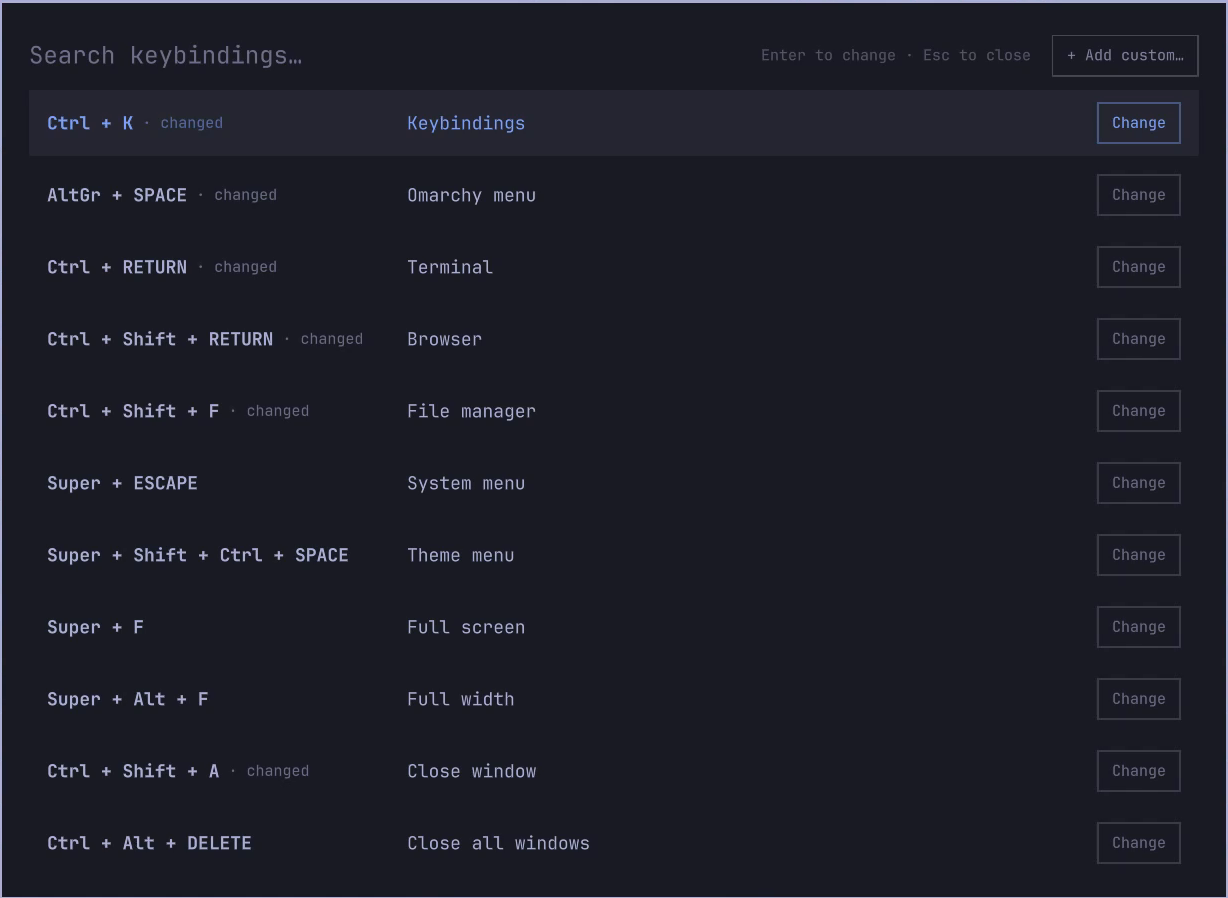
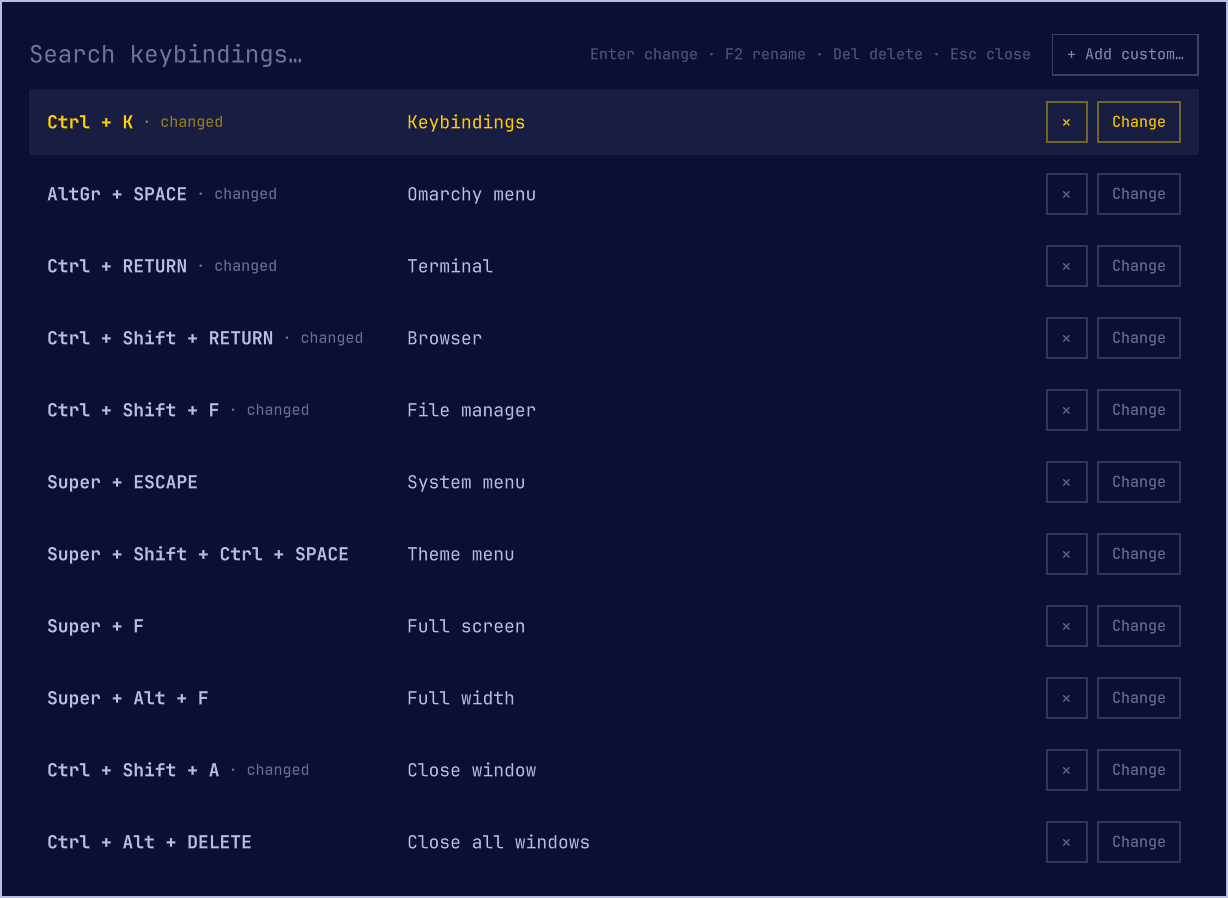
Fix restore of a removed bind, refresh screenshots and docs
Restore used the remap inverse to find the entry to delete. When another
action's replacement sits on the removed bind's original combo (the
conflict-override case), that resolved to the other action's entry and
deleted its remap instead. A removed row already carries its original
combo; use it directly.

Also normalize keybind-renames.lua keys on load so hand-edited entries
match, and open rename from the list without suspending binds first, so
the two submap dispatches no longer race.

Screenshots show the delete buttons, the Rename link, the rename field and
the Removed section; the README table lists the new ones.

diff --git a/KeybindEditor.qml b/KeybindEditor.qml
@@ -140,8 +140,13 @@ Item {
     root.rebuildDisplay()
   }
 
+  // Keys are normalized on load so a hand-edited "Super + K" still matches.
   function loadRenames(text) {
-    root.renames = KeybindModel.parseRemaps(text || "")
+    var parsed = KeybindModel.parseRemaps(text || "")
+    var normalized = {}
+    for (var original in parsed)
+      normalized[KeybindModel.normalize(original)] = parsed[original]
+    root.renames = normalized
     if (root.opened) root.rebuildDisplay()
   }
 
@@ -283,7 +288,9 @@ Item {
       || event.nativeScanCode === 108
   }
 
-  function openCapture(index) {
+  // skipSuspend: the caller goes straight into rename, which needs binds
+  // live; avoids dispatching suspend and reset back to back.
+  function openCapture(index, skipSuspend) {
     if (index < 0 || index >= displayModel.count) return
     root.altgrHeld = false
     root.captureRow = displayModel.get(index)
@@ -297,7 +304,7 @@ Item {
     root.renameMode = false
     root.applying = false
     root.captureOpen = true
-    root.setBindsSuspended(true)
+    if (!skipSuspend) root.setBindsSuspended(true)
   }
 
   function closeCapture() {
@@ -318,7 +325,7 @@ Item {
   }
 
   function openRename(index) {
-    root.openCapture(index)
+    root.openCapture(index, true)
     if (root.captureOpen) root.enterRename()
   }
 
@@ -397,12 +404,14 @@ Item {
   }
 
   // Every kind is one apply-remap.sh op on the original combo: "combo" and
-  // "restore" delete the remap entry (a removed bind's row already carries
-  // its original combo), "name" drops the rename entry.
+  // "restore" delete the remap entry, "name" drops the rename entry. A
+  // removed row already carries its original combo; do not run it through
+  // the remap inverse, another action's replacement may sit on that combo.
   function applyReset() {
     if (!root.resetRow || root.applying) return
     root.applying = true
-    var original = root.originalFor(root.resetRow.normalized)
+    var original = root.resetKind === "restore" ? root.resetRow.normalized
+                                                : root.originalFor(root.resetRow.normalized)
     applyProc.command = [root.pluginDir + "/apply-remap.sh",
                          root.resetKind === "name" ? "unrename" : "delete", original]
     applyProc.running = true
@@ -478,7 +487,7 @@ Item {
     root.deleteConfirm = false
     root.renameMode = true
     renameInput.text = root.captureRow.description
-    root.setBindsSuspended(false)
+    if (root.bindsSuspended) root.setBindsSuspended(false)
     Qt.callLater(function() { renameInput.forceActiveFocus(); renameInput.selectAll() })
   }
 

diff --git a/README.md b/README.md
@@ -60,11 +60,11 @@ hook, the release notes tell you to re-run `install.sh`.
 <table>
   <tr>
     <td align="center">
-      <a href="screenshots/list.png"><img src="screenshots/list.png" width="230" alt="Keybindings list: every binding gets a Change button; rebound entries are marked changed"></a>
+      <a href="screenshots/list.png"><img src="screenshots/list.png" width="230" alt="Keybindings list: every binding gets a delete button and a Change button; rebound entries are marked changed"></a>
       <br><sub>List</sub>
     </td>
     <td align="center">
-      <a href="screenshots/capture.png"><img src="screenshots/capture.png" width="230" alt="Capture dialog: press the new combination, Enter applies"></a>
+      <a href="screenshots/capture.png"><img src="screenshots/capture.png" width="230" alt="Capture dialog: press the new combination, Enter applies; Rename and Delete links below"></a>
       <br><sub>Capture</sub>
     </td>
     <td align="center">
@@ -78,6 +78,16 @@ hook, the release notes tell you to re-run `install.sh`.
     <td align="center">
       <a href="screenshots/add.png"><img src="screenshots/add.png" width="230" alt="Add custom keybinding: combo, description, and command in one dialog"></a>
       <br><sub>Add custom</sub>
+    </td>
+  </tr>
+  <tr>
+    <td align="center">
+      <a href="screenshots/rename.png"><img src="screenshots/rename.png" width="230" alt="Rename: F2 or the Rename link turns the capture dialog into a name field, prefilled with the current name"></a>
+      <br><sub>Rename</sub>
+    </td>
+    <td align="center">
+      <a href="screenshots/removed.png"><img src="screenshots/removed.png" width="230" alt="Removed section: deleted defaults are listed struck through with a Restore button; Enter asks for confirmation"></a>
+      <br><sub>Removed and restore</sub>
     </td>
   </tr>
 </table>
